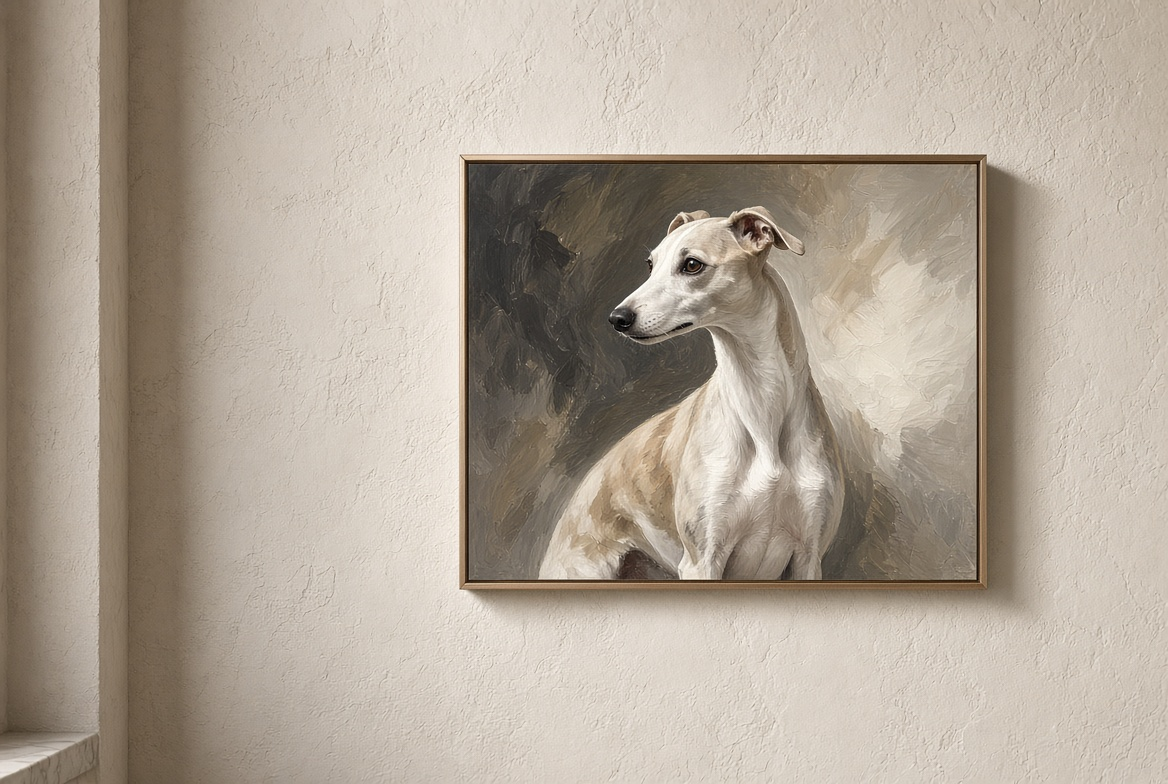
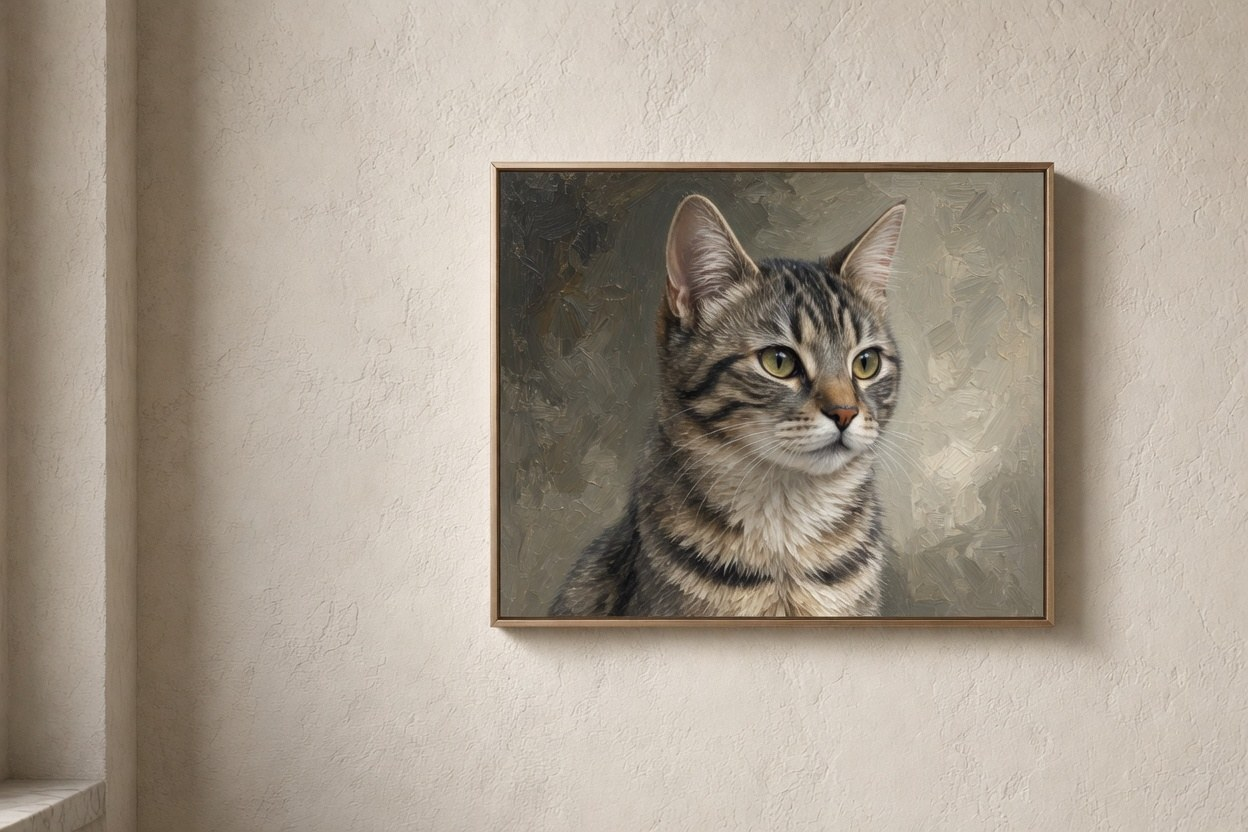
Replace the sample gallery with Mau, Blacky, and Mini Mini.
The hero and the dark wall keep the earlier rooms. Captions name the three animals in Spanish and English.

Changed region(s): [[0.4007, 0.1837, 0.863, 0.7653], [0.0, 0.9184, 0.0925, 1.0], [0.524, 0.0918, 0.5548, 0.1224]]

diff --git a/index.html b/index.html
@@ -47,8 +47,8 @@
           </div>
         </div>
         <figure class="hero-visual">
-          <img src="assets/portraits/hero-wall.jpg" alt="Retrato enmarcado en muro" />
-          <figcaption class="hero-caption" data-i="heroCap">Prototipo · reemplazar con obra de Alex</figcaption>
+          <img src="assets/portraits/hero-wall.jpg" alt="Óleo de Mini Mini en marco de madera, sobre muro de yeso" />
+          <figcaption class="hero-caption" data-i="heroCap">Muro · Mini Mini</figcaption>
         </figure>
       </section>
 
@@ -61,42 +61,39 @@
         </div>
         <div class="gallery">
           <button class="tile tall" type="button">
-            <img src="assets/portraits/noir-cat.jpg" alt="Gato negro, serie Noir" />
-            <figcaption data-i="noir">Serie Noir · Gato</figcaption>
+            <img src="assets/portraits/noir.jpg" alt="Óleo noir de Mau" />
+            <figcaption data-i="noir">Noir · Mau</figcaption>
           </button>
           <button class="tile" type="button">
-            <img src="assets/portraits/golden.jpg" alt="Golden retriever" />
-            <figcaption data-i="golden">Estudio · Retriever</figcaption>
+            <img src="assets/portraits/studio.jpg" alt="Óleo de Blacky" />
+            <figcaption data-i="studio">Estudio · Blacky</figcaption>
           </button>
           <button class="tile" type="button">
-            <img src="assets/portraits/pair-wall.jpg" alt="Pareja de retratos en muro" />
-            <figcaption data-i="wall">En casa</figcaption>
+            <img src="assets/portraits/pair-wall.jpg" alt="Retratos de Blacky y Mau en muro oscuro" />
+            <figcaption data-i="wall">Blacky · Mau</figcaption>
           </button>
           <button class="tile tall" type="button">
-            <img src="assets/portraits/bulldog.jpg" alt="Bulldog francés" />
-            <figcaption data-i="bully">Juego · Bulldog</figcaption>
+            <img src="assets/portraits/duck.jpg" alt="Blacky con pato de goma" />
+            <figcaption data-i="duck">Blacky · Pato</figcaption>
           </button>
           <button class="tile" type="button">
-            <img src="assets/portraits/pair.jpg" alt="Perro y gato" />
-            <figcaption data-i="pair">Dúo</figcaption>
+            <img src="assets/portraits/duo.jpg" alt="Blacky y Mini Mini juntos" />
+            <figcaption data-i="duo">Blacky · Mini Mini</figcaption>
           </button>
           <button class="tile" type="button">
-            <img src="assets/portraits/tabby.jpg" alt="Gato atigrado" />
-            <figcaption data-i="tabby">Atelier · Tabby</figcaption>
+            <img src="assets/portraits/tabby.jpg" alt="Mini Mini sentada, óleo" />
+            <figcaption data-i="tabby">Atelier · Mini Mini</figcaption>
           </button>
           <button class="tile wide" type="button">
-            <img src="assets/portraits/dachshund.jpg" alt="Teckel" />
-            <figcaption data-i="teckel">Wash · Teckel</figcaption>
+            <img src="assets/portraits/wash.jpg" alt="Acuarela de Blacky" />
+            <figcaption data-i="wash">Wash · Blacky</figcaption>
           </button>
         </div>
-        <p class="note" data-i="workNote">
-          Las imágenes actuales son placeholders de estilo para el prototipo. Se sustituyen por la obra real de Alex Avalos.
-        </p>
       </section>
 
       <section id="estudio">
         <div class="studio">
-          <img src="assets/portraits/frame-detail.jpg" alt="Detalle de marco y cristal" />
+          <img src="assets/portraits/frame-detail.jpg" alt="Detalle de marco dorado y óleo de Mini Mini" />
           <div>
             <p class="kicker" data-i="studioKicker">El estudio</p>
             <h2 data-i="studioTitle">Studio Â</h2>

diff --git a/app.js b/app.js
@@ -8,17 +8,16 @@ const i18n = {
     lede: "Piezas únicas, enmarcadas, hechas para colgarse como arte — no como souvenir. Divertidas cuando hace falta, serias cuando el personaje lo pide.",
     ctaCommission: "Encargar un retrato",
     ctaWork: "Ver obra",
-    heroCap: "Prototipo · reemplazar con obra de Alex",
+    heroCap: "Muro · Mini Mini",
     workTitle: "Selección",
     workLead: "La galería es el catálogo. Cada encargo parte de la mascota, no de una plantilla.",
-    workNote: "Las imágenes actuales son placeholders de estilo para el prototipo. Se sustituyen por la obra real de Alex Avalos.",
-    noir: "Serie Noir · Gato",
-    golden: "Estudio · Retriever",
-    wall: "En casa",
-    bully: "Juego · Bulldog",
-    pair: "Dúo",
-    tabby: "Atelier · Tabby",
-    teckel: "Wash · Teckel",
+    noir: "Noir · Mau",
+    studio: "Estudio · Blacky",
+    wall: "Blacky · Mau",
+    duck: "Blacky · Pato",
+    duo: "Blacky · Mini Mini",
+    tabby: "Atelier · Mini Mini",
+    wash: "Wash · Blacky",
     studioKicker: "El estudio",
     studioTitle: "Studio Â",
     studioP1: "Alex Avalos trabaja retratos de mascotas como piezas de autor: composición, paleta y carácter antes que “estilo a elegir”. El resultado llega listo para muro — impresión fotográfica de archivo, marco y cristal o mica.",
@@ -77,17 +76,16 @@ const i18n = {
     lede: "One-off framed pieces meant to hang as art — not as a souvenir. Playful when the character asks for it, quiet when it doesn’t.",
     ctaCommission: "Commission a portrait",
     ctaWork: "View work",
-    heroCap: "Prototype · replace with Alex’s work",
+    heroCap: "On the wall · Mini Mini",
     workTitle: "Selected work",
     workLead: "The gallery is the catalog. Every commission starts from the animal, not a template pack.",
-    workNote: "Images here are style placeholders for the prototype. They will be replaced with Alex Avalos’s actual pieces.",
-    noir: "Noir series · Cat",
-    golden: "Studio · Retriever",
-    wall: "In situ",
-    bully: "Play · Bulldog",
-    pair: "Pair",
-    tabby: "Atelier · Tabby",
-    teckel: "Wash · Dachshund",
+    noir: "Noir · Mau",
+    studio: "Studio · Blacky",
+    wall: "Blacky · Mau",
+    duck: "Blacky · Duck",
+    duo: "Blacky · Mini Mini",
+    tabby: "Atelier · Mini Mini",
+    wash: "Wash · Blacky",
     studioKicker: "The studio",
     studioTitle: "Studio Â",
     studioP1: "Alex Avalos treats pet portraits as authored works: composition, palette and character before “pick a style”. Each piece ships ready for the wall — archival photographic print, frame, and glass or acrylic.",
